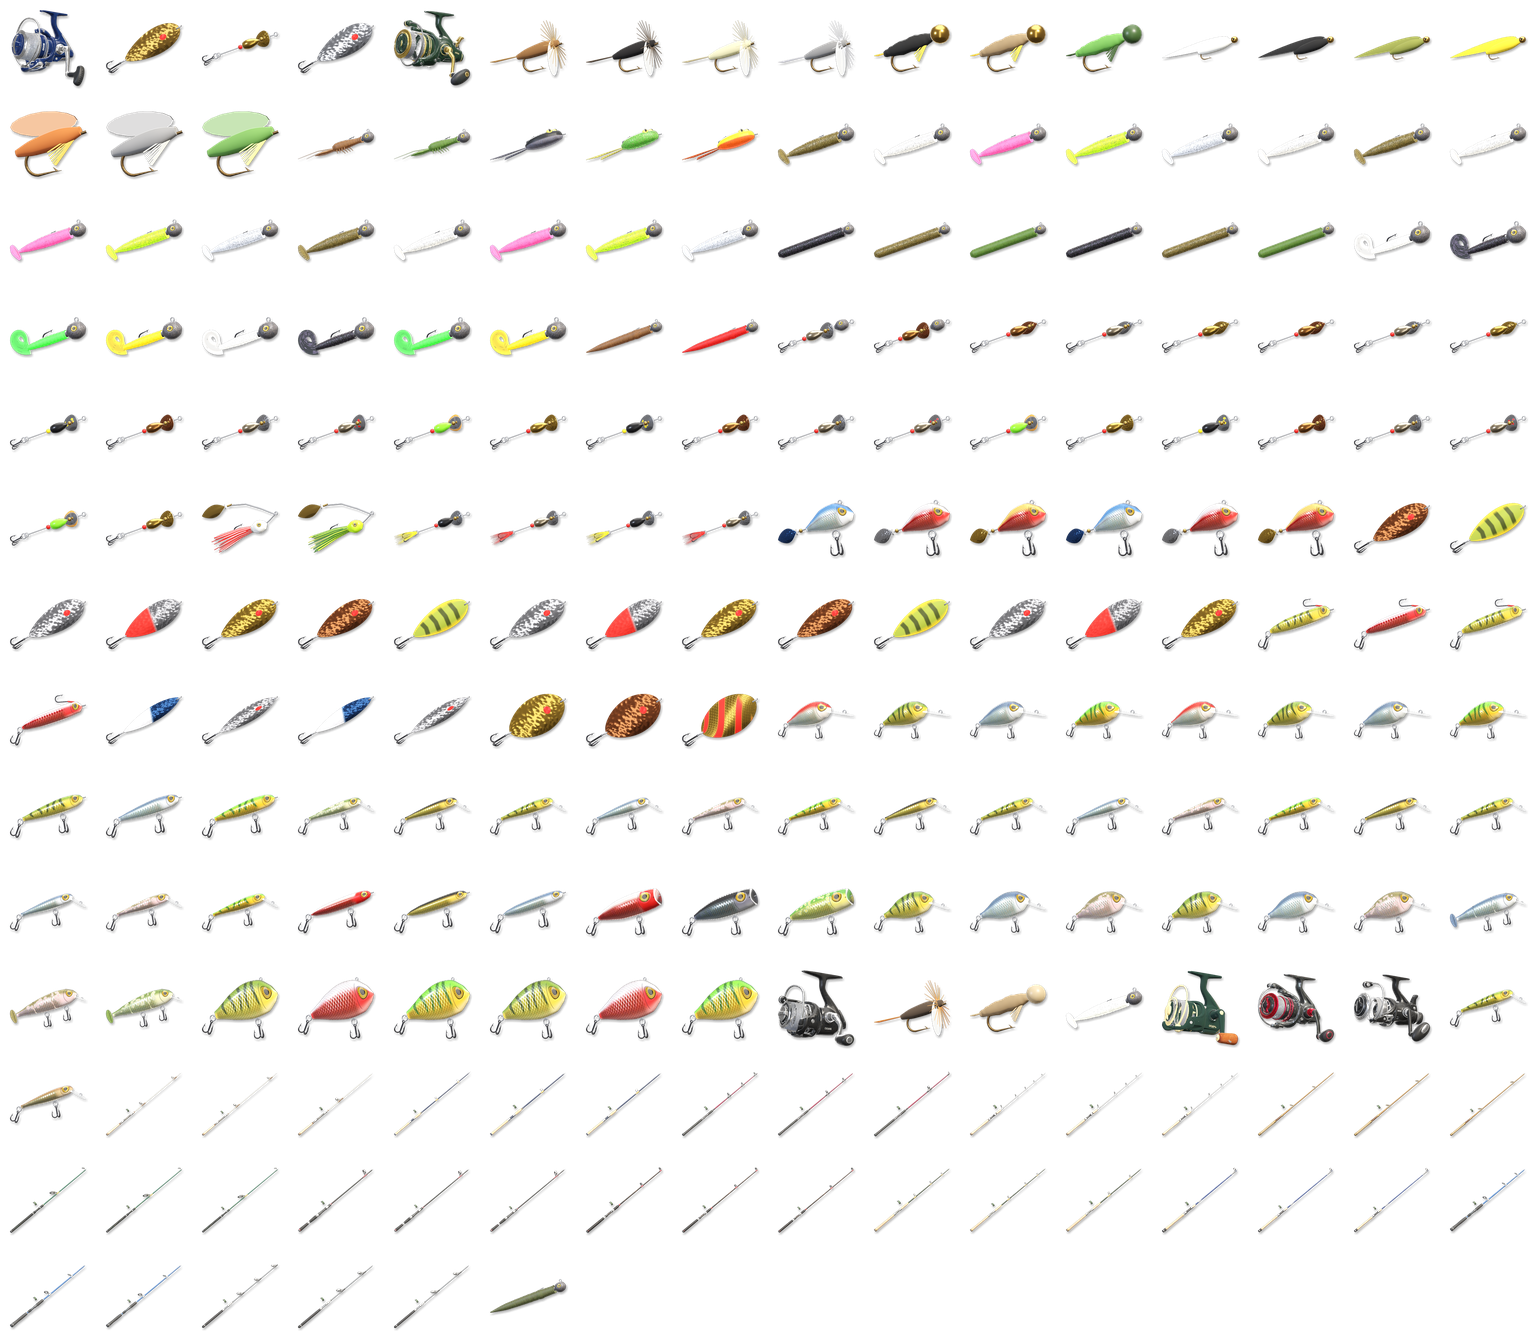
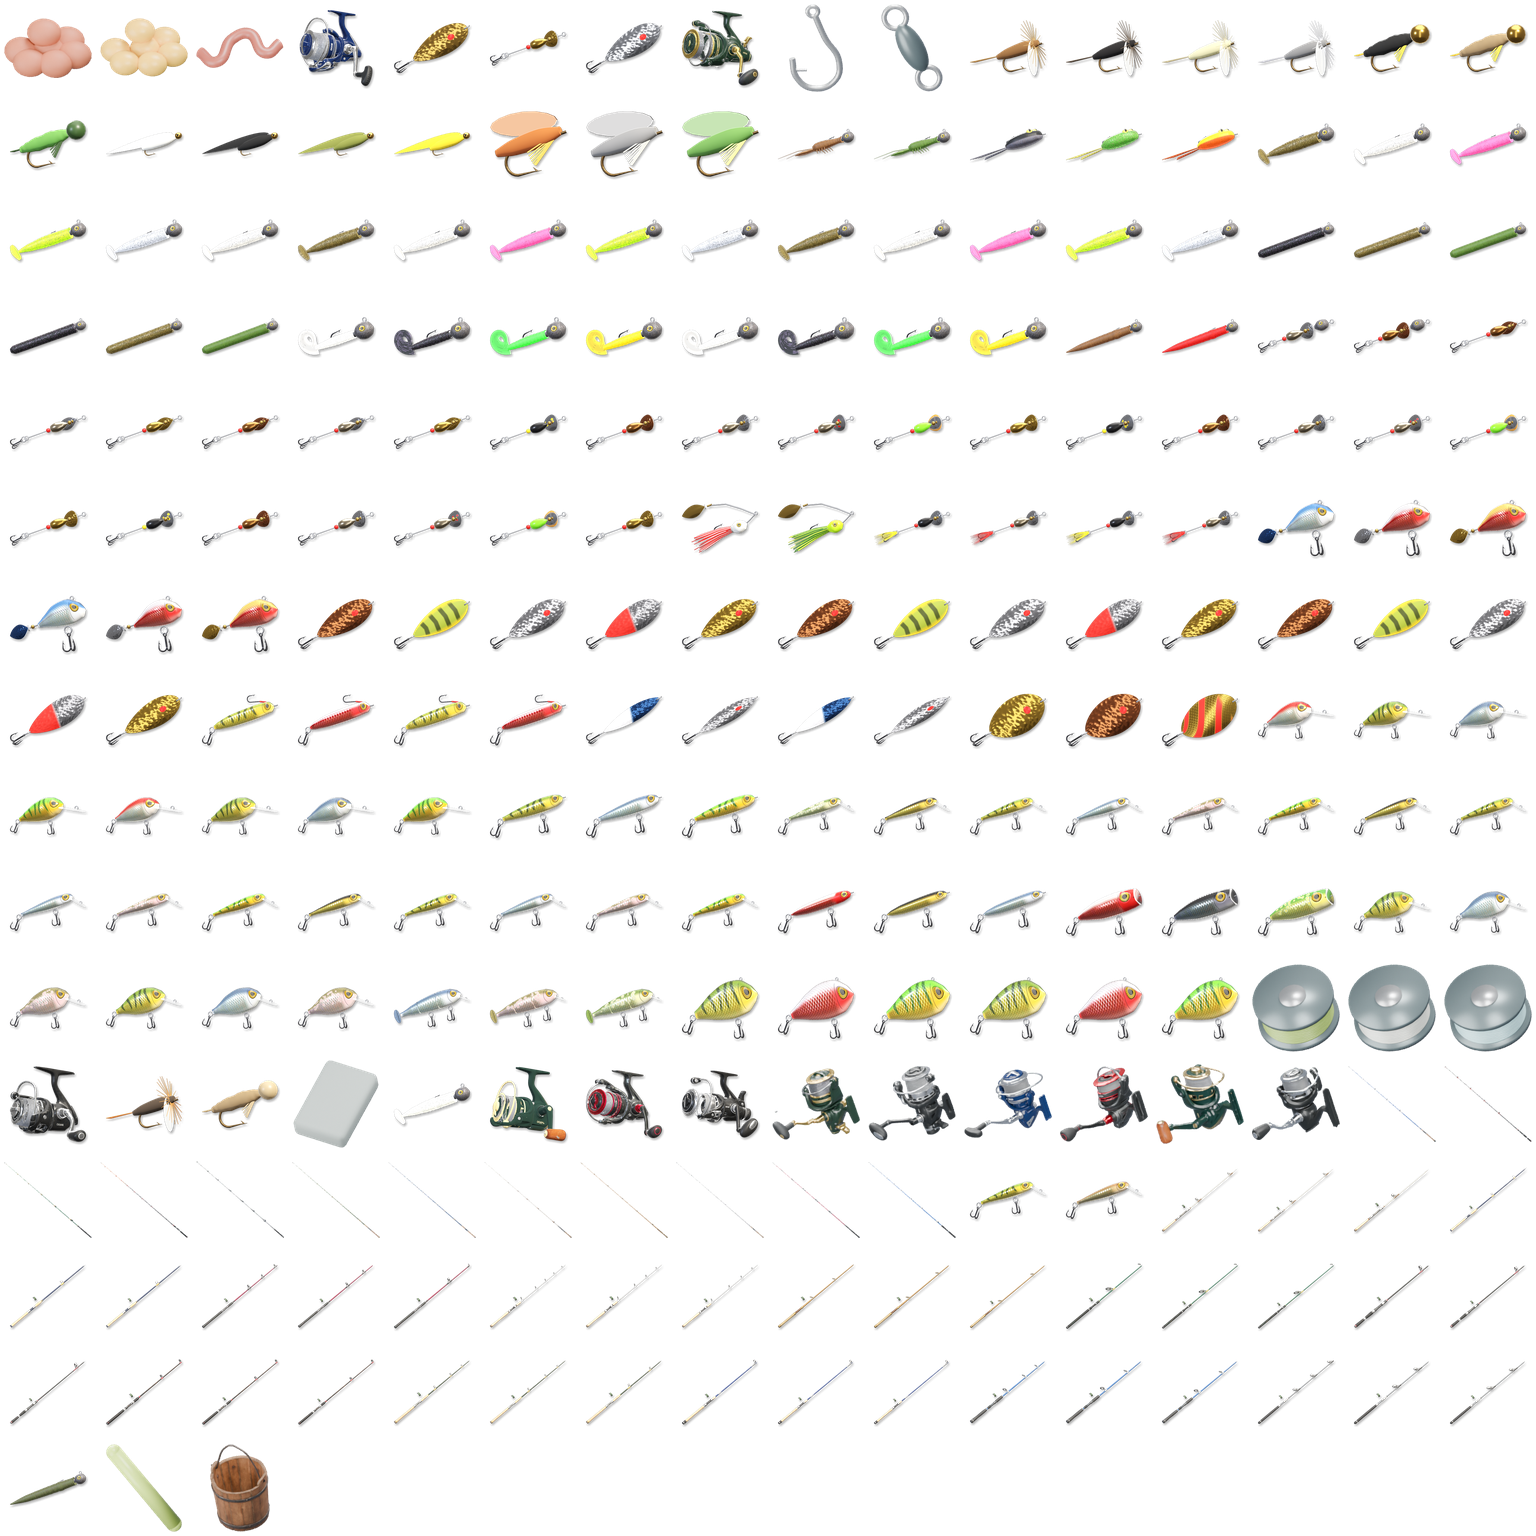
Render tackle thumbnails for shop and inventory
(cherry picked from commit 26b62e41abca7d5492dff4630d7f0a839d0b0854)

diff --git a/tools/assets/render_tackle_thumbnails.py b/tools/assets/render_tackle_thumbnails.py
@@ -1,0 +1,177 @@
+"""Render transparent shop thumbnails with Blender. Run from the repository root."""
+import json
+import math
+from pathlib import Path
+
+import bpy
+from mathutils import Vector
+
+ROOT = Path.cwd()
+MODELS = ROOT / "assets/models"
+OUT = ROOT / "build/local/inventory_thumbnails"
+OUT.mkdir(parents=True, exist_ok=True)
+bpy.ops.wm.read_factory_settings(use_empty=True)
+scene = bpy.context.scene
+scene.render.engine = "CYCLES"
+scene.cycles.samples = 12
+scene.cycles.use_denoising = True
+scene.render.resolution_x = scene.render.resolution_y = 192
+scene.render.resolution_percentage = 100
+scene.render.image_settings.color_mode = "RGBA"
+scene.render.film_transparent = True
+scene.world = bpy.data.worlds.new("Studio")
+scene.world.use_nodes = True
+scene.world.node_tree.nodes["Background"].inputs[0].default_value = (.37,.43,.53,1)
+scene.world.node_tree.nodes["Background"].inputs[1].default_value = .7
+camera = bpy.data.objects.new("Camera", bpy.data.cameras.new("Camera"))
+scene.collection.objects.link(camera)
+scene.camera = camera
+camera.data.type = "ORTHO"
+camera.data.clip_start = .001
+
+for name, position, energy, size in (
+    ("Key",(2,-3,4),530,2.2),("Fill",(-2,-2,1),260,2.5),("Rim",(1,2,3),500,1.8)
+):
+    light = bpy.data.lights.new(name,"AREA")
+    light.energy,light.size=energy,size
+    obj=bpy.data.objects.new(name,light)
+    scene.collection.objects.link(obj)
+    obj.location=position
+    obj.rotation_euler=(-obj.location).to_track_quat("-Z","Y").to_euler()
+studio = set(scene.objects)
+
+def model_vector(values):
+    x,y,z=values
+    return Vector((x,-z,y))
+
+def render(key, direction, roll=0):
+    objects=[o for o in scene.objects if o not in studio]
+    bpy.context.view_layer.update()
+    points=[o.matrix_world @ Vector(v) for o in objects if o.type in {"MESH","CURVE"} for v in o.bound_box]
+    center=Vector(tuple((min(p[k] for p in points)+max(p[k] for p in points))*.5 for k in range(3)))
+    for o in objects:
+        if o.parent not in objects:
+            o.location-=center
+    camera.location=Vector(direction).normalized()*7
+    camera.rotation_euler=(-camera.location).to_track_quat("-Z","Y").to_euler()
+    camera.rotation_euler.rotate_axis("Z",math.radians(roll))
+    inv=camera.rotation_euler.to_matrix().transposed()
+    local=[inv@(p-center) for p in points]
+    camera.data.ortho_scale=max(max(p[i] for p in local)-min(p[i] for p in local) for i in (0,1))*1.15
+    scene.render.filepath=str(OUT/(key.replace("/","_")+".png"))
+    bpy.ops.render.render(write_still=True)
+    for o in objects:
+        bpy.data.objects.remove(o,do_unlink=True)
+
+def surface(name,color,metal=0,rough=.36):
+    mat=bpy.data.materials.new(name)
+    mat.use_nodes=True
+    p=mat.node_tree.nodes.get("Principled BSDF")
+    p.inputs["Base Color"].default_value=(*color,1)
+    p.inputs["Metallic"].default_value=metal
+    p.inputs["Roughness"].default_value=rough
+    return mat
+
+silver=surface("Steel",(.47,.48,.48),.85)
+dark=surface("Graphite",(.10,.135,.14),.45)
+olive=surface("Braid",(.29,.43,.075),.12)
+glow=surface("Glow stick",(.59,.85,.11),0,.28)
+mono=surface("Monofilament",(.37,.61,.63),.16)
+fluoro=surface("Fluorocarbon",(.68,.70,.63),.24)
+worm=surface("Worm",(.33,.067,.043),0,.42)
+corn=surface("Corn",(.86,.49,.025),0,.39)
+berry=surface("Boilies",(.46,.115,.047),0,.64)
+
+def assign(mat):
+    o=bpy.context.object
+    o.data.materials.append(mat)
+    for face in o.data.polygons: face.use_smooth=True
+
+def cylinder(radius, depth, at, mat):
+    bpy.ops.mesh.primitive_cylinder_add(vertices=48,radius=radius,depth=depth,location=at)
+    assign(mat)
+
+def ball(at, scale, mat):
+    bpy.ops.mesh.primitive_uv_sphere_add(segments=24,ring_count=12,location=at)
+    bpy.context.object.scale=scale
+    assign(mat)
+
+def stroke(points, radius, mat, closed=False):
+    curve=bpy.data.curves.new("Profile","CURVE")
+    curve.dimensions="3D"
+    curve.resolution_u=16
+    curve.bevel_depth=radius
+    curve.bevel_resolution=4
+    curve.use_fill_caps=True
+    spline=curve.splines.new("BEZIER")
+    spline.bezier_points.add(len(points)-1)
+    for p,at in zip(spline.bezier_points,points):
+        p.co=at
+        p.handle_left_type=p.handle_right_type="AUTO"
+    spline.use_cyclic_u=closed
+    obj=bpy.data.objects.new("Profile",curve)
+    scene.collection.objects.link(obj)
+    curve.materials.append(mat)
+
+for folder in ("rods","reels"):
+    for path in sorted((MODELS/folder).glob("*.glb")):
+        bpy.ops.import_scene.gltf(filepath=str(path))
+        parts={o.name.split(".")[0]:o for o in scene.objects if o not in studio and o.type=="MESH"}
+        if folder=="rods":
+            for name,o in parts.items():
+                if name.startswith("Seg"):
+                    o.location=(0,0,.25+.30*int(name[3:]))
+            render(folder+"/"+path.stem,(.12,-1,.01),-49)
+        else:
+            data=json.loads(path.with_suffix(".json").read_text(encoding="utf8"))
+            for name,key in (("Rotor","rotor"),("Crank","hub"),("Bail","bail_pivot")):
+                if name in parts and key in data:
+                    parts[name].location=model_vector(data[key])
+            if "Bail" in parts and "Rotor" in parts:
+                parts["Bail"].location+=parts["Rotor"].location
+            render(folder+"/"+path.stem,(-1,-1.3,.65),-18)
+
+for key,mat in (("mono",mono),("braid",olive),("fluoro",fluoro)):
+    cylinder(.34,.25,(0,0,0),mat)
+    for z in (-.15,.15):
+        cylinder(.39,.047,(0,0,z),dark)
+        cylinder(.13,.027,(0,0,z*1.2),silver)
+    for i in range(10):
+        bpy.ops.mesh.primitive_torus_add(major_segments=40,minor_segments=8,major_radius=.337,minor_radius=.012,location=(0,0,-.107+i*.023))
+        assign(mat)
+    render("line_"+key,(.4,-1,1.25),-16)
+
+stroke([(.18,0,.37),(.17,0,.14),(.19,0,-.09),(.08,0,-.25),(-.13,0,-.23),(-.21,0,-.08),(-.17,0,.095)],.026,silver)
+stroke([(.18+.046*math.cos(i*math.tau/12),0,.415+.046*math.sin(i*math.tau/12)) for i in range(12)],.018,silver,True)
+stroke([(-.20,0,-.01),(-.10,0,-.055)],.012,silver)
+render("hook",(.16,-1,.36),-27)
+
+stroke([(-.42,0,0),(-.25,-.15,.045),(-.08,.13,.034),(.09,.18,.045),(.27,-.05,.024),(.41,.07,.007)],.057,worm)
+render("bait_worm",(.1,-.8,1.3),-8)
+for key,mat,radius in (("bait_corn",corn,.115),("bait_carp",berry,.14)):
+    for x,y,z in [(-.22,0,0),(0,.04,0),(.22,0,0),(-.12,-.13,.01),(.09,-.12,.01),(.13,.15,0),(-.03,.08,.15)]:
+        ball((x,y,z),(radius,radius*.83,radius*.79),mat)
+    render(key,(.35,-1,1.1),-10)
+
+bpy.ops.import_scene.gltf(filepath=str(MODELS/"wooden_bucket_01.glb"))
+render("wiadro",(.65,-1,1.05),-8)
+
+ball((0,0,0),(.092,.092,.20),dark)
+for z in (-.26,.26):
+    stroke([(.083*math.cos(i*math.tau/16),0,z+.083*math.sin(i*math.tau/16)) for i in range(16)],.019,silver,True)
+render("kretlik",(.13,-1,.15),-29)
+
+cylinder(.061,.79,(0,0,0),glow)
+for z in (-.39,.39):
+    ball((0,0,z),(.061,.061,.061),glow)
+render("swietlik",(.16,-1,.4),-40)
+
+bpy.ops.mesh.primitive_cube_add(size=1)
+stone=bpy.context.object
+stone.scale=(.45,.68,.17)
+bpy.ops.object.transform_apply(location=False, rotation=False, scale=True)
+bevel=stone.modifiers.new("Rounded edges","BEVEL")
+bevel.width=.045
+bevel.segments=4
+assign(surface("Whetstone",(.25,.29,.27),0,.84))
+render("oselka",(.7,-1,1.7),-12)

diff --git a/tools/unity/pack_tackle_thumbnails.py b/tools/unity/pack_tackle_thumbnails.py
@@ -1,0 +1,43 @@
+"""Pack the original icons and Blender renders into the Unity inventory atlas."""
+import re
+from pathlib import Path
+
+from PIL import Image
+
+root = Path(__file__).resolve().parents[2]
+icons = {}
+for path in sorted((root / "assets/icons").glob("*.png")):
+    match = re.fullmatch(r"(?:rod|reel|lure)_(.+)_[0-9a-f]{8}_v\d+", path.stem)
+    if match:
+        icons[match[1]] = path
+
+renders = root / "build/local/inventory_thumbnails"
+required = {f"{folder}/{p.stem}" for folder in ("rods", "reels")
+            for p in (root / "assets/models" / folder).glob("*.glb")}
+required.update(("line_mono", "line_braid", "line_fluoro", "hook", "bait_worm", "bait_corn", "bait_carp",
+                 "wiadro", "kretlik", "swietlik", "oselka"))
+for key in required:
+    path = renders / (key.replace("/", "_") + ".png")
+    if not path.is_file():
+        raise SystemExit(f"Missing render: {path}")
+    icons[key] = path
+
+keys = sorted(icons)
+cell, columns = 96, 16
+atlas = Image.new("RGBA", (columns * cell, ((len(keys) + columns - 1) // columns) * cell))
+for i, key in enumerate(keys):
+    with Image.open(icons[key]) as source:
+        image = source.convert("RGBA")
+    if key in required:
+        box = image.getbbox()
+        if box is None:
+            raise SystemExit(f"Empty render: {icons[key]}")
+        image = image.crop(box)
+    image.thumbnail((88, 88), Image.Resampling.LANCZOS)
+    at = (i % columns * cell + (cell - image.width) // 2, i // columns * cell + (cell - image.height) // 2)
+    atlas.alpha_composite(image, at)
+
+out = root / "unity/Assets/StreamingAssets/Inventory"
+atlas.save(out / "gear.png", optimize=True)
+(out / "gear.txt").write_text("\n".join(keys) + "\n", encoding="utf8")
+print(f"{len(required)} new renders, {len(keys)} thumbnails total")

diff --git a/unity/Assets/Scripts/Game/GameRoot.cs b/unity/Assets/Scripts/Game/GameRoot.cs
@@ -2011,7 +2011,21 @@ namespace FishingSim.Game
                     }
                 }
             }
-            if (item != null && _gearAtlas != null && _gearRegions.TryGetValue(item.ItemId, out var uv))
+            string thumbnail = item switch
+            {
+                RodData rod => string.IsNullOrEmpty(rod.Model) ? "rods/float_ostoja" : rod.Model,
+                ReelData reel => string.IsNullOrEmpty(reel.Model) ? "reels/small_hokuto" : reel.Model,
+                LineData { Kind: LineKind.Braid } => "line_braid",
+                LineData { Kind: LineKind.Fluoro } => "line_fluoro",
+                LineData => "line_mono",
+                HookData => "hook",
+                BaitData { Kind: BaitKind.Natural } => "bait_worm",
+                BaitData { Kind: BaitKind.Plant } => "bait_corn",
+                BaitData { Kind: BaitKind.Carp } => "bait_carp",
+                _ => "",
+            };
+            if (item != null && _gearAtlas != null &&
+                (_gearRegions.TryGetValue(item.ItemId, out var uv) || _gearRegions.TryGetValue(thumbnail, out uv)))
                 GUI.DrawTextureWithTexCoords(rect, _gearAtlas, uv);
             else
                 DrawGearGlyph(rect, category, item != null ? Muted : Faint);
